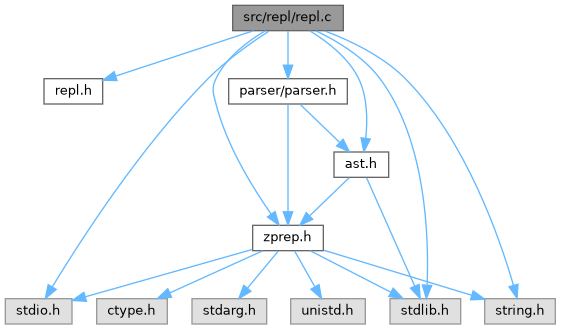
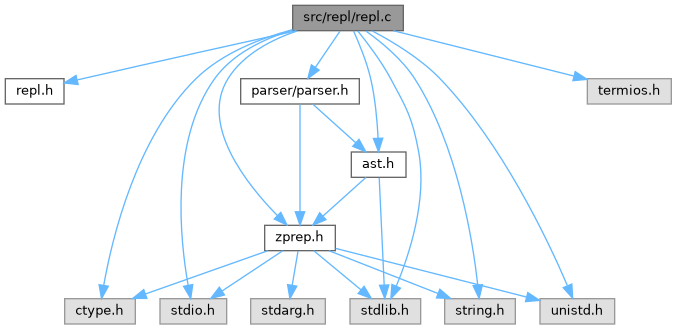
deploy: z-libs/Zen-C@4049809f230e5e27adaf19aa57e7e9b69da5a4f0

diff --git a/repl_8c.html b/repl_8c.html
@@ -102,39 +102,46 @@ $(document).ready(function(){initNavTree('repl_8c.html',''); initResizable(); })
 <code>#include &lt;stdio.h&gt;</code><br />
 <code>#include &lt;stdlib.h&gt;</code><br />
 <code>#include &lt;string.h&gt;</code><br />
+<code>#include &lt;termios.h&gt;</code><br />
+<code>#include &lt;unistd.h&gt;</code><br />
+<code>#include &lt;ctype.h&gt;</code><br />
 </div><div class="textblock"><div class="dynheader">
 Include dependency graph for repl.c:</div>
 <div class="dyncontent">
 <div class="center"><img src="repl_8c__incl.png" border="0" usemap="#asrc_2repl_2repl_8c" alt=""/></div>
 <map name="asrc_2repl_2repl_8c" id="asrc_2repl_2repl_8c">
-<area shape="rect" title=" " alt="" coords="233,5,343,31"/>
-<area shape="rect" href="repl_8h.html" title=" " alt="" coords="44,79,103,104"/>
-<area shape="poly" title=" " alt="" coords="254,33,117,79,115,73,253,28"/>
-<area shape="rect" href="ast_8h.html" title=" " alt="" coords="334,152,389,177"/>
-<area shape="poly" title=" " alt="" coords="311,29,338,49,361,77,369,108,368,138,363,138,364,109,356,80,335,52,308,33"/>
-<area shape="rect" href="zprep_8h.html" title=" " alt="" coords="253,225,323,251"/>
-<area shape="poly" title=" " alt="" coords="267,33,240,52,218,80,216,91,219,103,229,134,243,164,273,213,269,216,239,167,224,136,213,105,210,91,214,78,236,48,264,29"/>
-<area shape="rect" title=" " alt="" coords="5,299,72,324"/>
-<area shape="poly" title=" " alt="" coords="270,33,241,54,210,81,161,135,117,193,55,288,50,285,113,190,157,132,206,77,237,50,267,29"/>
-<area shape="rect" title=" " alt="" coords="390,299,461,324"/>
-<area shape="poly" title=" " alt="" coords="317,29,351,48,382,77,398,102,410,130,424,187,430,242,430,285,424,285,424,242,419,188,405,132,393,105,378,80,348,52,315,33"/>
-<area shape="rect" title=" " alt="" coords="485,299,555,324"/>
-<area shape="poly" title=" " alt="" coords="326,28,367,48,407,77,448,129,480,187,502,241,516,285,511,286,497,243,475,189,444,132,403,81,365,52,323,33"/>
-<area shape="rect" href="parser_8h.html" title=" " alt="" coords="229,79,347,104"/>
-<area shape="poly" title=" " alt="" coords="291,31,291,65,285,65,285,31"/>
-<area shape="poly" title=" " alt="" coords="351,180,312,218,308,214,347,176"/>
-<area shape="poly" title=" " alt="" coords="369,177,417,285,412,287,364,179"/>
-<area shape="rect" title=" " alt="" coords="97,299,167,324"/>
-<area shape="poly" title=" " alt="" coords="264,253,171,295,169,290,262,248"/>
-<area shape="rect" title=" " alt="" coords="192,299,267,324"/>
-<area shape="poly" title=" " alt="" coords="280,253,249,290,245,287,276,249"/>
-<area shape="poly" title=" " alt="" coords="253,252,86,299,85,294,252,247"/>
-<area shape="poly" title=" " alt="" coords="311,248,392,290,390,295,309,253"/>
-<area shape="poly" title=" " alt="" coords="325,248,472,293,471,298,323,253"/>
-<area shape="rect" title=" " alt="" coords="291,299,365,324"/>
-<area shape="poly" title=" " alt="" coords="297,250,317,285,312,288,292,252"/>
-<area shape="poly" title=" " alt="" coords="302,102,341,140,338,144,298,106"/>
-<area shape="poly" title=" " alt="" coords="291,104,291,212,285,212,285,104"/>
+<area shape="rect" title=" " alt="" coords="293,5,403,31"/>
+<area shape="rect" href="repl_8h.html" title=" " alt="" coords="5,79,64,104"/>
+<area shape="poly" title=" " alt="" coords="297,33,83,81,78,82,77,77,82,76,296,28"/>
+<area shape="rect" href="ast_8h.html" title=" " alt="" coords="351,152,406,177"/>
+<area shape="poly" title=" " alt="" coords="356,30,373,78,381,138,375,138,368,79,351,32"/>
+<area shape="rect" href="zprep_8h.html" title=" " alt="" coords="265,225,335,251"/>
+<area shape="poly" title=" " alt="" coords="298,33,260,51,244,64,230,80,223,97,222,115,226,133,233,152,255,186,279,214,275,217,251,189,228,154,220,135,217,115,218,96,226,77,240,60,257,47,296,28"/>
+<area shape="rect" title=" " alt="" coords="65,299,135,324"/>
+<area shape="poly" title=" " alt="" coords="293,32,243,50,219,64,198,81,177,104,160,130,133,187,116,242,106,286,101,284,111,241,128,185,155,128,173,101,194,77,216,59,241,45,292,27"/>
+<area shape="rect" title=" " alt="" coords="160,299,227,324"/>
+<area shape="poly" title=" " alt="" coords="294,33,251,50,232,64,217,80,203,105,193,132,184,189,185,242,191,285,185,286,180,243,179,188,188,130,198,103,213,77,229,60,249,46,291,28"/>
+<area shape="rect" title=" " alt="" coords="350,299,421,324"/>
+<area shape="poly" title=" " alt="" coords="360,29,393,77,411,113,421,152,423,189,418,226,399,287,394,285,413,225,418,189,416,152,406,115,388,80,356,33"/>
+<area shape="rect" title=" " alt="" coords="445,299,515,324"/>
+<area shape="poly" title=" " alt="" coords="367,29,393,49,417,77,444,132,463,189,474,243,480,284,475,285,469,244,458,191,439,134,412,80,389,53,364,33"/>
+<area shape="rect" title=" " alt="" coords="540,299,615,324"/>
+<area shape="poly" title=" " alt="" coords="373,29,408,49,442,77,485,130,522,188,570,284,565,287,517,191,481,133,438,81,405,53,371,33"/>
+<area shape="rect" href="parser_8h.html" title=" " alt="" coords="241,79,359,104"/>
+<area shape="poly" title=" " alt="" coords="342,33,318,69,313,66,338,30"/>
+<area shape="rect" title=" " alt="" coords="587,79,671,104"/>
+<area shape="poly" title=" " alt="" coords="394,28,574,73,573,79,393,33"/>
+<area shape="poly" title=" " alt="" coords="368,179,325,218,321,214,364,175"/>
+<area shape="poly" title=" " alt="" coords="382,178,387,285,382,285,377,178"/>
+<area shape="poly" title=" " alt="" coords="269,253,147,296,145,291,267,248"/>
+<area shape="rect" title=" " alt="" coords="251,299,325,324"/>
+<area shape="poly" title=" " alt="" coords="301,251,295,286,290,285,295,251"/>
+<area shape="poly" title=" " alt="" coords="284,253,224,293,221,289,281,248"/>
+<area shape="poly" title=" " alt="" coords="315,249,363,288,359,292,312,253"/>
+<area shape="poly" title=" " alt="" coords="330,248,439,291,437,296,328,253"/>
+<area shape="poly" title=" " alt="" coords="336,246,527,294,526,300,335,251"/>
+<area shape="poly" title=" " alt="" coords="314,102,358,141,354,145,311,106"/>
+<area shape="poly" title=" " alt="" coords="303,104,303,212,297,212,297,104"/>
 </map>
 </div>
 </div><table class="memberdecls">

diff --git a/search/all_11.js b/search/all_11.js
@@ -62,7 +62,7 @@ var searchData=
   ['is_5fextern_5fsymbol_59',['is_extern_symbol',['../parser_8h.html#a10b744c3be20036894711e5bc15e248d',1,'is_extern_symbol(ParserContext *ctx, const char *name):&#160;parser_utils.c'],['../parser__utils_8c.html#a10b744c3be20036894711e5bc15e248d',1,'is_extern_symbol(ParserContext *ctx, const char *name):&#160;parser_utils.c']]],
   ['is_5ffault_5ftolerant_60',['is_fault_tolerant',['../structParserContext.html#a3e150f924cf57a28591700fb66b974ae',1,'ParserContext']]],
   ['is_5ffile_5fimported_61',['is_file_imported',['../parser__utils_8c.html#a9149d6212f2fb516aabcc904f00bd4e3',1,'is_file_imported(ParserContext *ctx, const char *p):&#160;parser_utils.c'],['../parser_8h.html#a111ce6d74b8936e8a2a140aae394273f',1,'is_file_imported(ParserContext *ctx, const char *path):&#160;parser_utils.c']]],
-  ['is_5ffloat_5ftype_62',['is_float_type',['../ast_8c.html#af19f435b43e4182fd648a2d19fa51ded',1,'is_float_type(Type *t):&#160;ast.c'],['../constants_8h.html#a7354220acfbb13727d11ec9aab833d4f',1,'IS_FLOAT_TYPE:&#160;constants.h']]],
+  ['is_5ffloat_5ftype_62',['is_float_type',['../constants_8h.html#a7354220acfbb13727d11ec9aab833d4f',1,'IS_FLOAT_TYPE:&#160;constants.h'],['../ast_8c.html#af19f435b43e4182fd648a2d19fa51ded',1,'is_float_type(Type *t):&#160;ast.c']]],
   ['is_5ffreestanding_63',['is_freestanding',['../structCompilerConfig.html#a0ba32a71202b261dcdea5b7869f8852c',1,'CompilerConfig']]],
   ['is_5fguard_64',['is_guard',['../structASTNode.html#a149b90c8bdd7bddb791533ed4f6f5759',1,'ASTNode']]],
   ['is_5fident_5fchar_65',['is_ident_char',['../parser__utils_8c.html#a2f8ff8e493e5dbbf6cca8d5e5972ae25',1,'parser_utils.c']]],

diff --git a/globals_i.html b/globals_i.html
@@ -117,8 +117,8 @@ $(document).ready(function(){initNavTree('globals_i.html',''); initResizable(); 
 <li>IS_DOUBLE_TYPE&#160;:&#160;<a class="el" href="constants_8h.html#a1d05f4edb2eedc30a92122828cd7799e">constants.h</a></li>
 <li>is_extern_symbol()&#160;:&#160;<a class="el" href="parser__utils_8c.html#a10b744c3be20036894711e5bc15e248d">parser_utils.c</a>, <a class="el" href="parser_8h.html#a10b744c3be20036894711e5bc15e248d">parser.h</a></li>
 <li>is_file_imported()&#160;:&#160;<a class="el" href="parser_8h.html#a111ce6d74b8936e8a2a140aae394273f">parser.h</a>, <a class="el" href="parser__utils_8c.html#a9149d6212f2fb516aabcc904f00bd4e3">parser_utils.c</a></li>
-<li>IS_FLOAT_TYPE&#160;:&#160;<a class="el" href="constants_8h.html#a7354220acfbb13727d11ec9aab833d4f">constants.h</a></li>
 <li>is_float_type()&#160;:&#160;<a class="el" href="ast_8c.html#af19f435b43e4182fd648a2d19fa51ded">ast.c</a></li>
+<li>IS_FLOAT_TYPE&#160;:&#160;<a class="el" href="constants_8h.html#a7354220acfbb13727d11ec9aab833d4f">constants.h</a></li>
 <li>is_ident_char()&#160;:&#160;<a class="el" href="parser__utils_8c.html#a2f8ff8e493e5dbbf6cca8d5e5972ae25">parser_utils.c</a></li>
 <li>IS_INT_TYPE&#160;:&#160;<a class="el" href="constants_8h.html#a2f88fa30aecaaef0e00b3b4f8abc5809">constants.h</a></li>
 <li>is_integer_type()&#160;:&#160;<a class="el" href="ast_8c.html#a917235edd0bb705daa53e313c58599d8">ast.c</a>, <a class="el" href="ast_8h.html#a917235edd0bb705daa53e313c58599d8">ast.h</a></li>

diff --git a/repl_8h_source.html b/repl_8h_source.html
@@ -105,7 +105,7 @@ $(document).ready(function(){initNavTree('repl_8h_source.html',''); initResizabl
 <div class="line"><a id="l00010" name="l00010"></a><span class="lineno">   10</span><span class="keywordtype">void</span> <a class="code hl_function" href="repl_8h.html#ac17c246af5c88d533bdd7899e05f0376">run_repl</a>(<span class="keyword">const</span> <span class="keywordtype">char</span> *self_path);</div>
 <div class="line"><a id="l00011" name="l00011"></a><span class="lineno">   11</span> </div>
 <div class="line"><a id="l00012" name="l00012"></a><span class="lineno">   12</span><span class="preprocessor">#endif</span></div>
-<div class="ttc" id="arepl_8h_html_ac17c246af5c88d533bdd7899e05f0376"><div class="ttname"><a href="repl_8h.html#ac17c246af5c88d533bdd7899e05f0376">run_repl</a></div><div class="ttdeci">void run_repl(const char *self_path)</div><div class="ttdoc">Starts the Read-Eval-Print Loop (REPL).</div><div class="ttdef"><b>Definition</b> repl.c:18</div></div>
+<div class="ttc" id="arepl_8h_html_ac17c246af5c88d533bdd7899e05f0376"><div class="ttname"><a href="repl_8h.html#ac17c246af5c88d533bdd7899e05f0376">run_repl</a></div><div class="ttdeci">void run_repl(const char *self_path)</div><div class="ttdoc">Starts the Read-Eval-Print Loop (REPL).</div><div class="ttdef"><b>Definition</b> repl.c:974</div></div>
 </div><!-- fragment --></div><!-- contents -->
 </div><!-- doc-content -->
 <!-- start footer part -->
